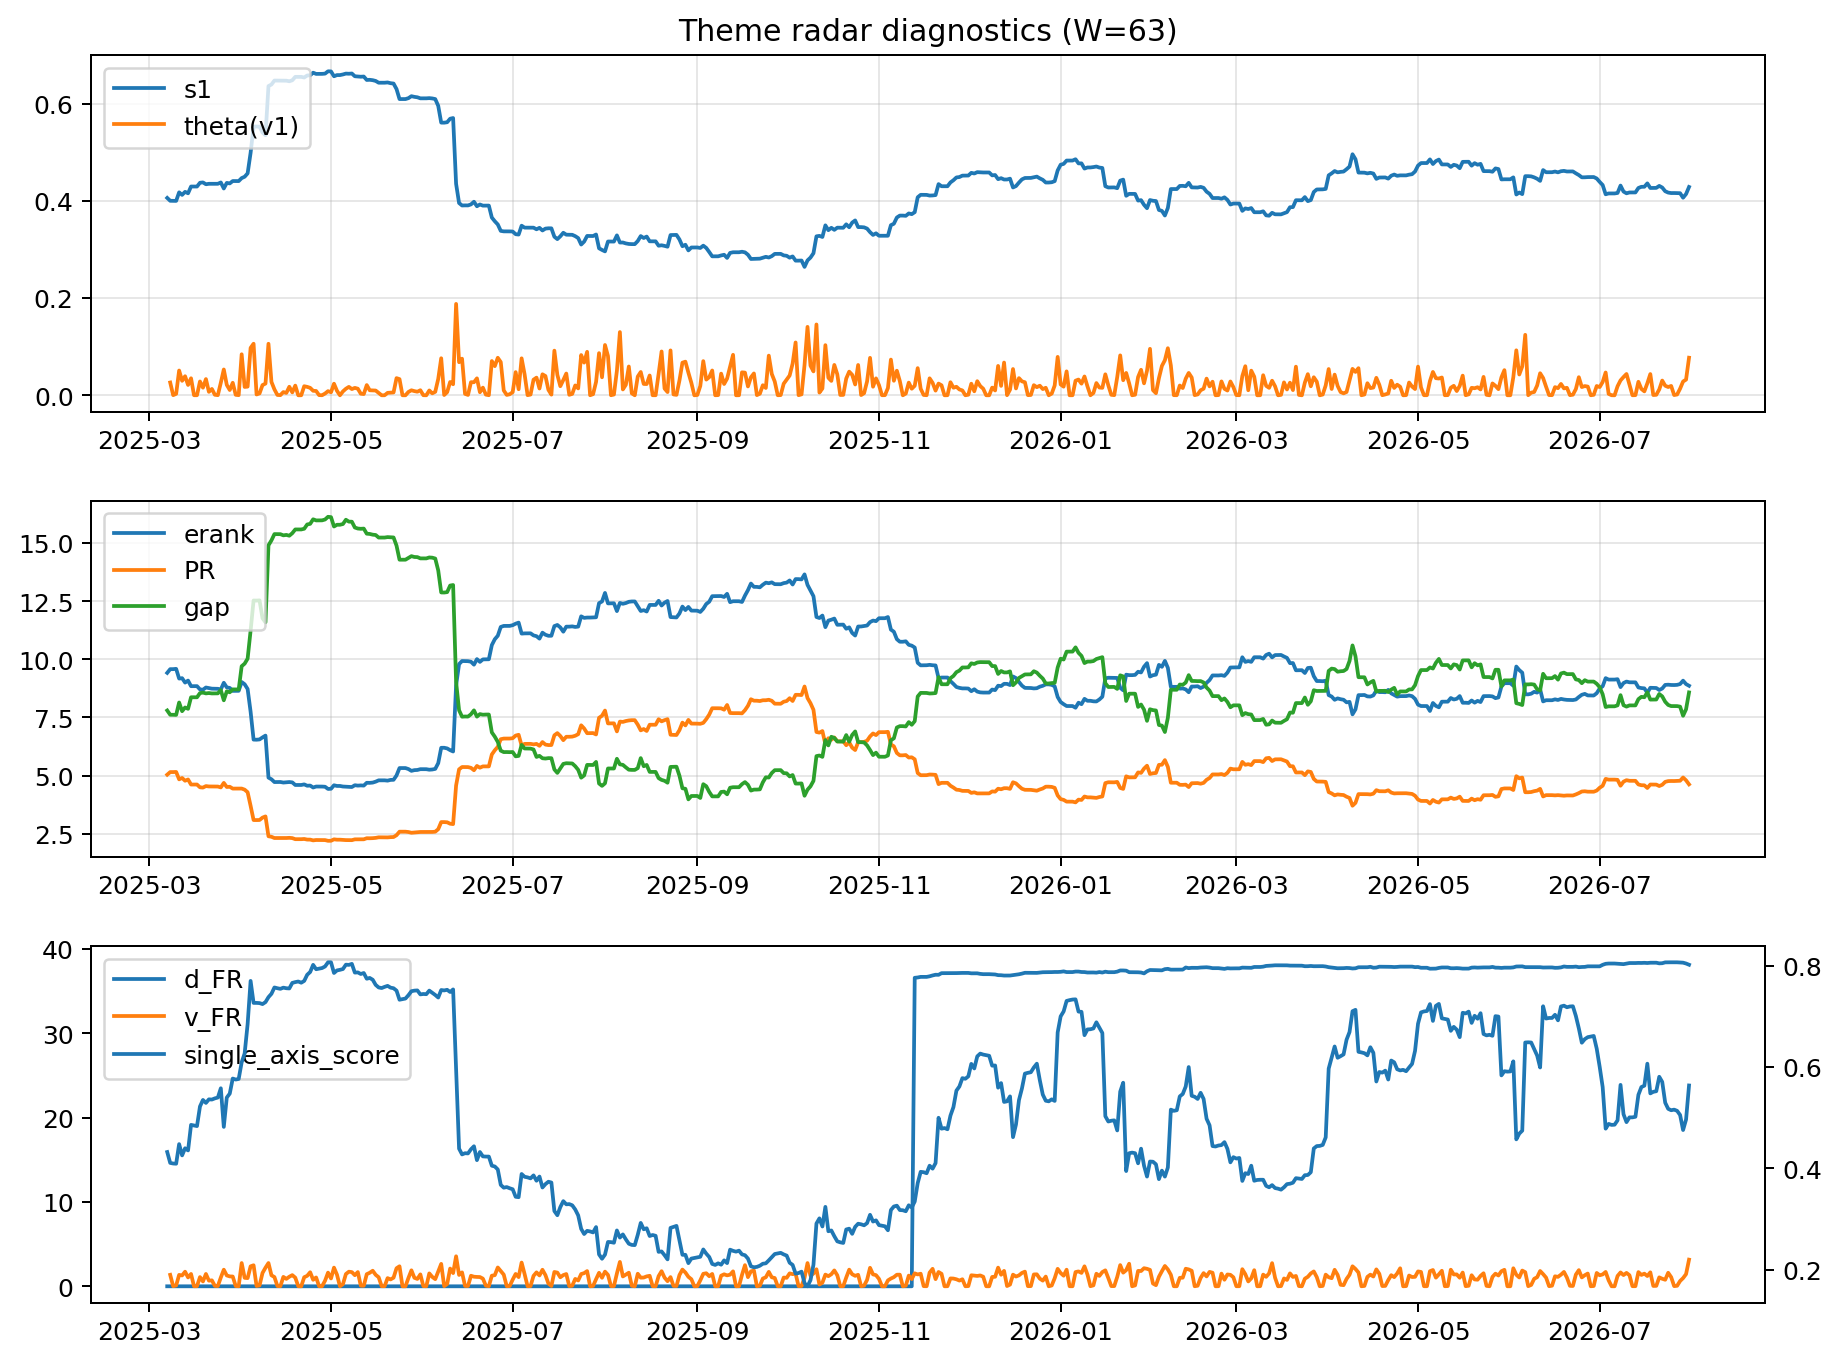
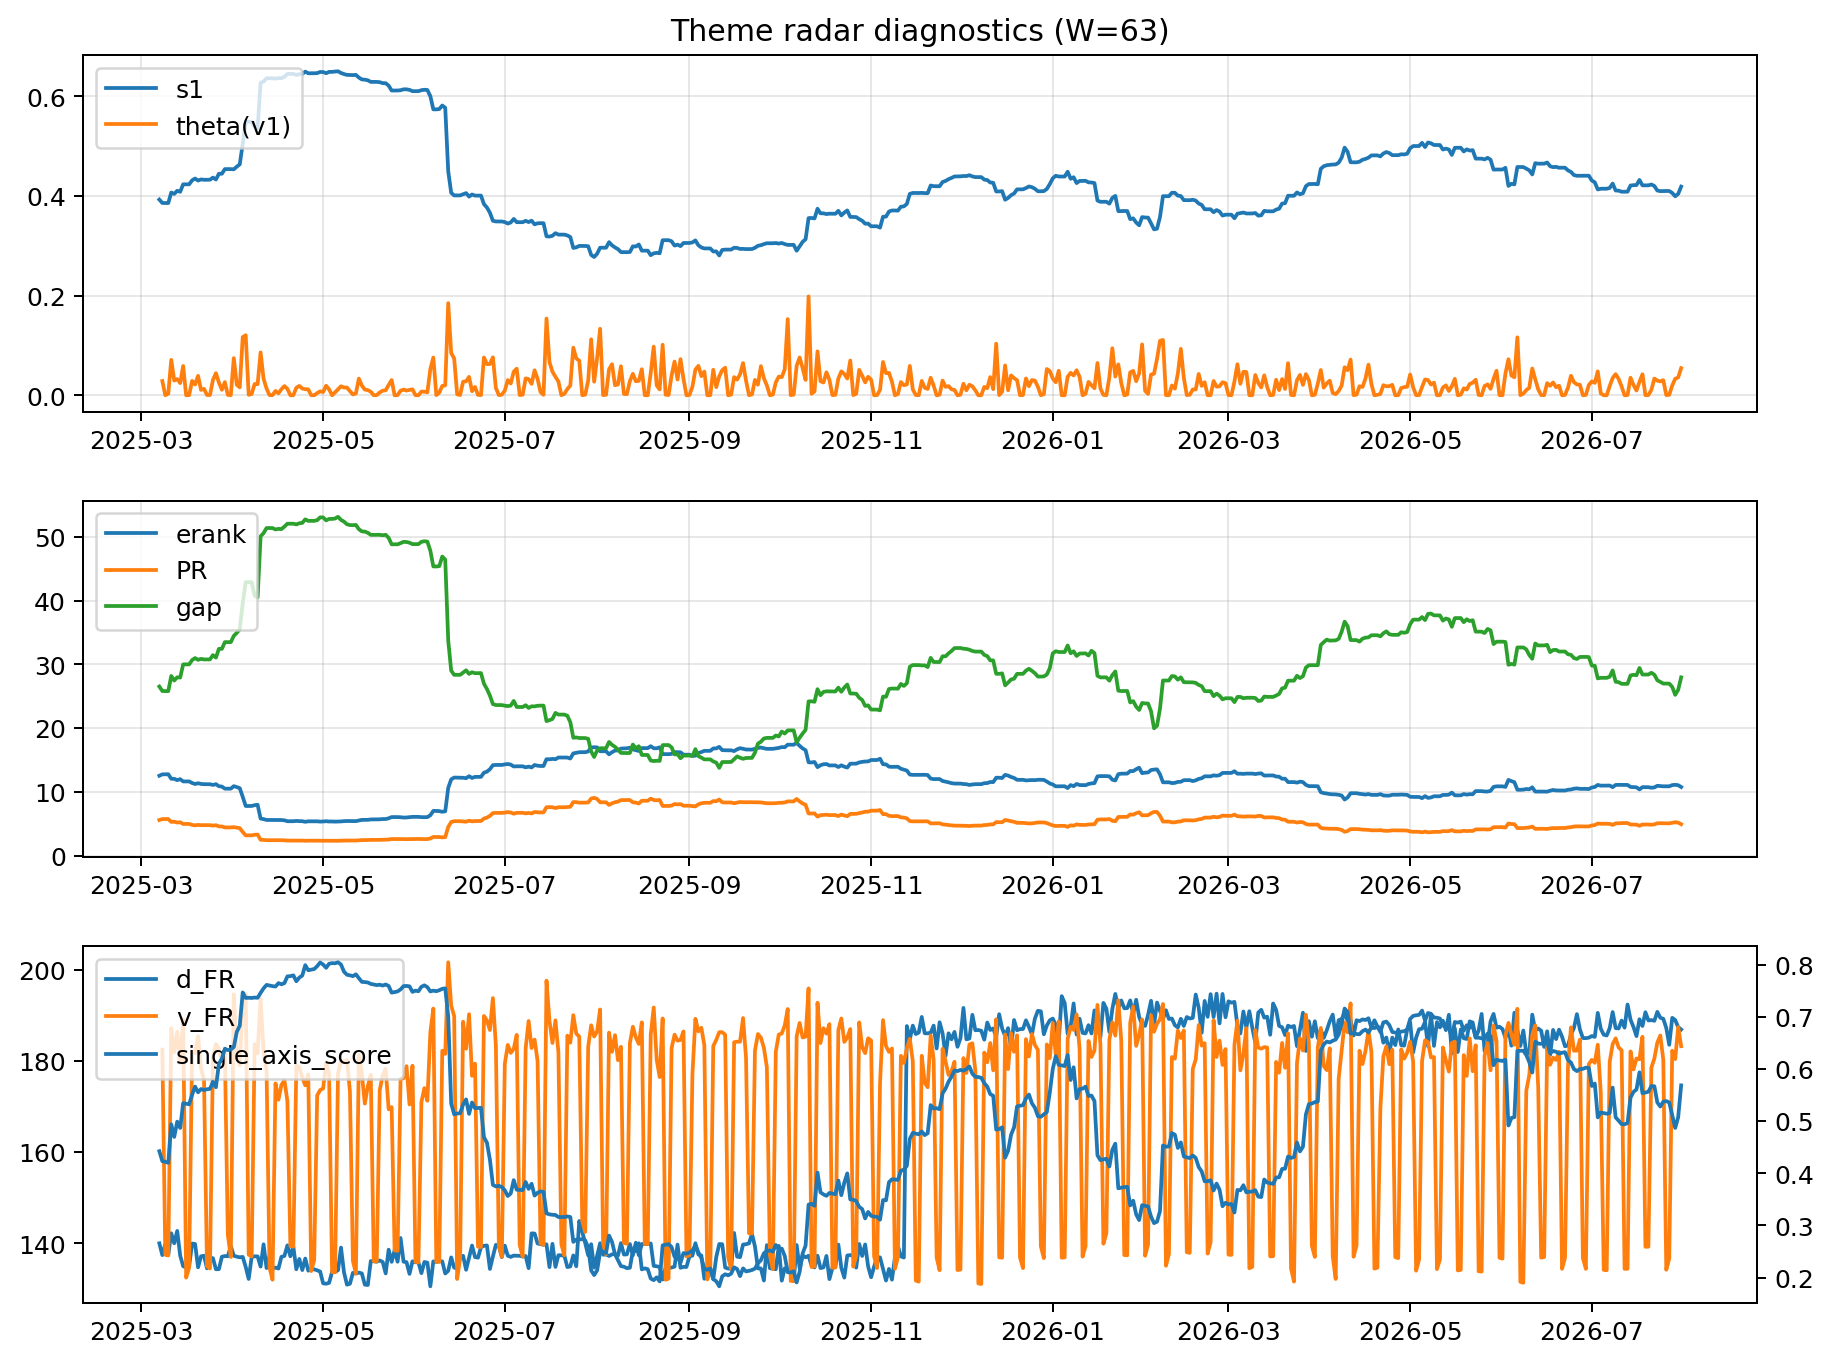
log: 2026-07-31 | sha256:240cd4def6ef53286ebc327d30976ed0793c47f149856a56fcbba64b5dfb8a56

diff --git a/logs/2026-07-31.md b/logs/2026-07-31.md
@@ -3,52 +3,52 @@
 ![diagnostic W63](../assets/diagnostic/2026-07-31_W63.png)
 
 ## Leaders (v1) — W=63
-- **Nuclear_Uranium** (0.1955223565995688)
-- Equity_ExUS (0.1061061779637193)
-- Metals (0.0949987172993083)
+- **Nuclear_Uranium** (0.0883531853235949)
+- Semis (0.0684722852131233)
+- Quantum (0.0574743426475259)
 
 ## Challengers — W=63
-**v2:** Sector_Fin (0.10593510200463), Grid_Power (0.0983196519219951), Sector_Comm (0.0939467309501836)
-**v3:** Grid_Power (0.1075949334436596), Nuclear_Uranium (0.0988645158762396), Sector_Ind (0.0910267318579572)
+**v2:** Semis (0.0844631488001523), MegaCap_AI (0.075945261146115), Rates (0.0747090985332221)
+**v3:** Software_Cloud (0.1053673313502884), DataCenter_Infra (0.0696941802886165), Grid_Power (0.0641164952047653)
 
 ## Migration (20D slope) — W=63
 **Top risers:**
-- axis_Space: 0.0004984631569614
-- axis_Nuclear_Uranium: 0.0004084012088695
-- axis_Sector_Utilities: 0.0003097710465764
-- axis_Clean_Solar: 0.0002296273278336
-- axis_Grid_Power: 0.0002058514818643
-- axis_Semis: 0.0002050103952689
-- axis_Quantum: 0.0001860452998698
-- axis_Crypto: 0.000162172887692
-- axis_Equity_ExUS: 0.0001339510532301
-- axis_MegaCap_AI: 0.0001201406524843
+- axis_Quantum: 0.0004574673045757
+- axis_Crypto: 0.0003265430219739
+- axis_Sector_RealEstate: 0.000270195305899
+- axis_Semis: 0.00024020055712
+- axis_Space: 0.0002142579494674
+- axis_Nuclear_Uranium: 0.0002136031697958
+- axis_Sector_Utilities: 0.0001845606792666
+- axis_Sector_Health: 0.0001298542822886
+- axis_Metals: 0.0001258842615444
+- axis_Drones_Autonomy: 0.0001041291416765
 
 **Top fallers:**
-- axis_Sector_ConsStap: 0.0
-- axis_Defense: 0.0
-- axis_Genomics_Bio: -1.157646390209555e-05
-- axis_Drones_Autonomy: -3.482979634902678e-05
-- axis_Equity_US: -0.0001649696768127
-- axis_Sector_Fin: -0.0002733306562532
-- axis_Sector_Ind: -0.0003734174536017
-- axis_Sector_Comm: -0.0004122585476833
-- axis_Credit: -0.0005626091043695
-- axis_Sector_Materials: -0.0008026723955279
+- axis_USD: -0.0001043582507647
+- axis_Sector_Ind: -0.0001145378386695
+- axis_Sector_Energy: -0.0001361529989695
+- axis_Defense: -0.0001627334011355
+- axis_Sector_ConsDisc: -0.0001824191659532
+- axis_Sector_Materials: -0.0002379612630288
+- axis_Credit: -0.0002457287147089
+- axis_Commodities: -0.0002985375828235
+- axis_DataCenter_Infra: -0.0004454774072407
+- axis_Rates: -0.0007869202150998
 
 ## Risk line (W=63)
-- s1: 0.4284114881653872
-- theta_v1: 0.0772869579180955
-- v_FR: 3.1603562677508603
-- single_axis_score: 0.563671875
+- s1: 0.4186149135516822
+- theta_v1: 0.0544507847231683
+- v_FR: 183.23432130818247
+- single_axis_score: 0.568359375
 
 ## Interpretation
-**Regime:** `structure_rewrite`
+**Regime:** `theme_migration`
 
-- Action: Tomorrow watchlist: Space, Nuclear_Uranium, Sector_Utilities, Clean_Solar, Grid_Power + v2_top1=Sector_Fin
-- Action: Hedge note: v_FR high + theta high → correlation structure unstable; diversify hedges / reduce reliance on static correlations.
+- Action: Tomorrow watchlist: Quantum, Crypto, Sector_RealEstate, Semis, Space + v2_top1=Semis
+- Action: Hedge note: normal correlation stability.
 
-- Percentiles (W=63 history): vfr_pct=1.00, theta_pct=0.95, s1_pct=0.52, score_pct=0.60.
+- Percentiles (W=63 history): vfr_pct=0.65, theta_pct=0.89, s1_pct=0.54, score_pct=0.63.
 
 ---
[2 lines of base64/hex data omitted]
